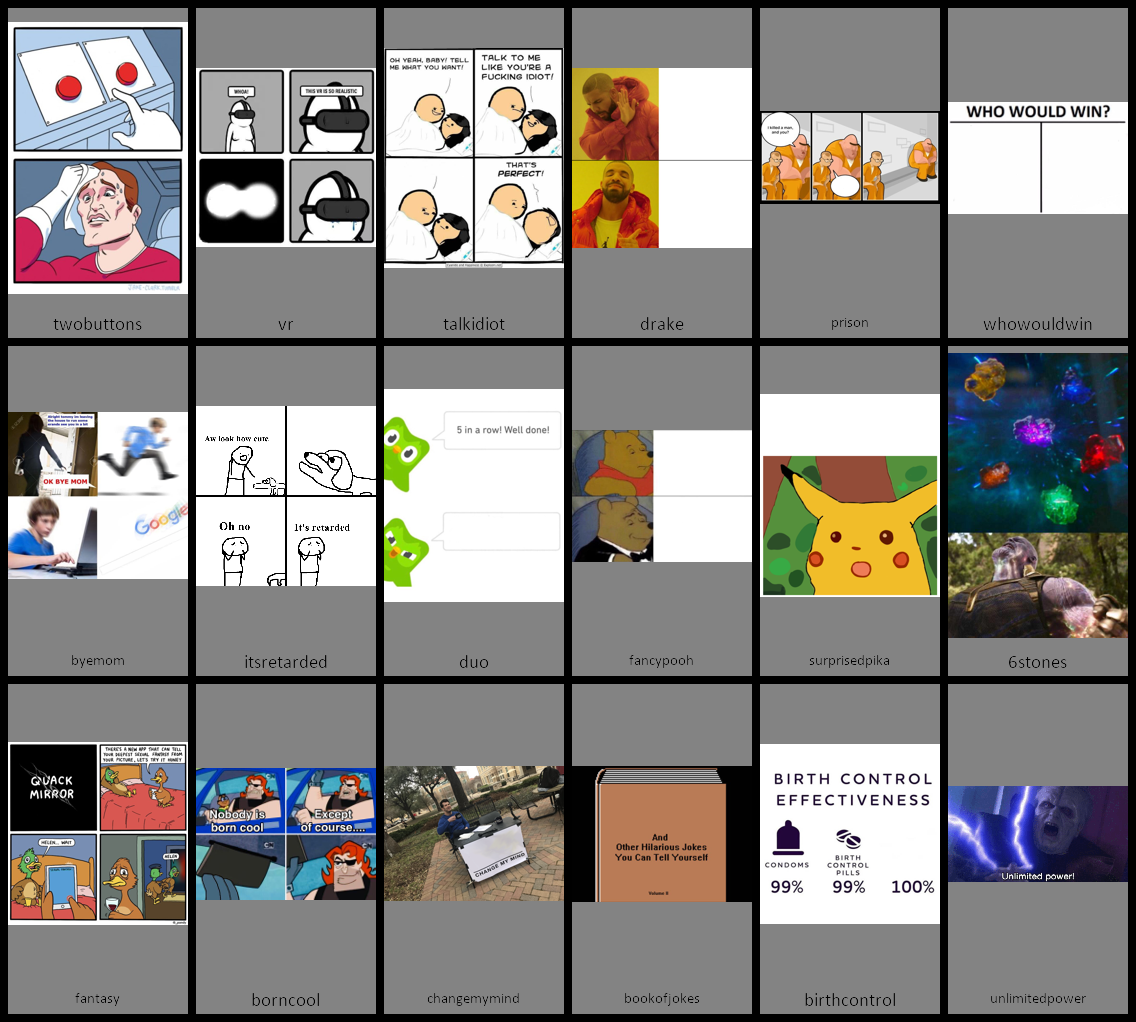
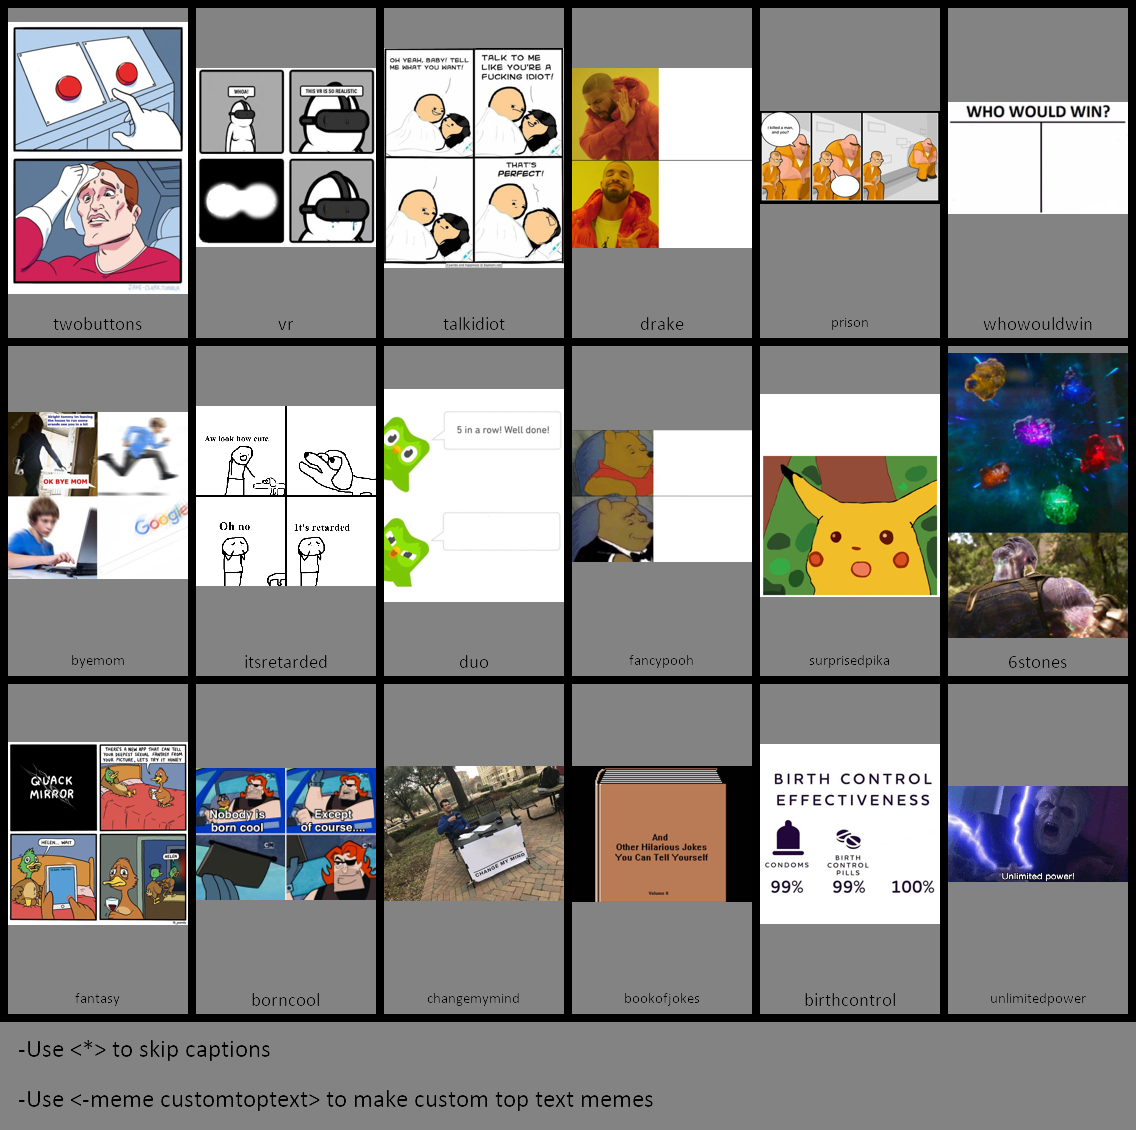
added notes to catalog

diff --git a/cogs/memes/caption.py b/cogs/memes/caption.py
@@ -116,8 +116,10 @@ def toptextmeme(img, caption):
         img.thumbnail((img_w, img_h))
     else:
         img = img.resize((img_w, img_h))
+    img_loc = [13 + int((img_w - img.width)/2),
+               257 + int((img_h - img.height)/2)]
 
-    paste(back, img, (13, 257))
+    paste(back, img, (img_loc[0], img_loc[1]))
 
     caption = caption.split(",")
     for i in range(len(caption)):
@@ -180,14 +182,18 @@ def catalog():
     else:
         bach_h_size = int(len(memes)/row_len) + 1
 
+    notes_line_h = 50
+    notes_height = (2*notes_line_h) + border_width
+
     back_h = bach_h_size * (pich_factor + wordh_factor + border_width)
-    back_h += border_width
+    back_h += border_width + notes_height
 
     back = Image.new('RGBA', (back_w, back_h), (131, 131, 131, 255))
     font = "Calibri.ttf"
 
     border_x = Image.new('RGBA', (back_w, border_width), (0, 0, 0, 255))
-    border_y = Image.new('RGBA', (border_width, back_h), (0, 0, 0, 255))
+    border_y = Image.new('RGBA', (border_width, back_h - notes_height),
+                         (0, 0, 0, 255))
     h = 0
 
     meme_num = 0
@@ -219,11 +225,22 @@ def catalog():
         h = h + pich_factor + wordh_factor
 
     paste(back, border_x, (border_width, h))
+    h += border_width
 
     loc = 0
     for x in range(row_len + 1):
         paste(back, border_y, (loc, 0))
         loc += (border_width + w)
+
+    notes = ["-Use <*> to skip captions",
+             "-Use <customtoptext> to make custom top text memes"]
+
+    for note in notes:
+        des = ImageTextBox(note, back_w - (2 * border_width),
+                       notes_line_h - 5, align="left", fontfile="Calibri.ttf")
+        des = des.get_image()
+        paste(back, des, (border_width + 10, h + 5))
+        h += notes_line_h
 
     back.save(os.path.join(os.path.dirname(__file__), "../../temp_img/catalog.png"))
 

diff --git a/cogs/memes/meme.py b/cogs/memes/meme.py
@@ -54,6 +54,8 @@ class Meme:
             else:
                 await ctx.send(f"Please input a valid link or image attachment "
                                f"and caption")
+                await ctx.send(f"Usage: -meme customtoptext url, caption or")
+                await ctx.send(f"-meme customtoptext caption (with an attachment)")
                 return
 
             if caption.customtoptext(url, word, location):
